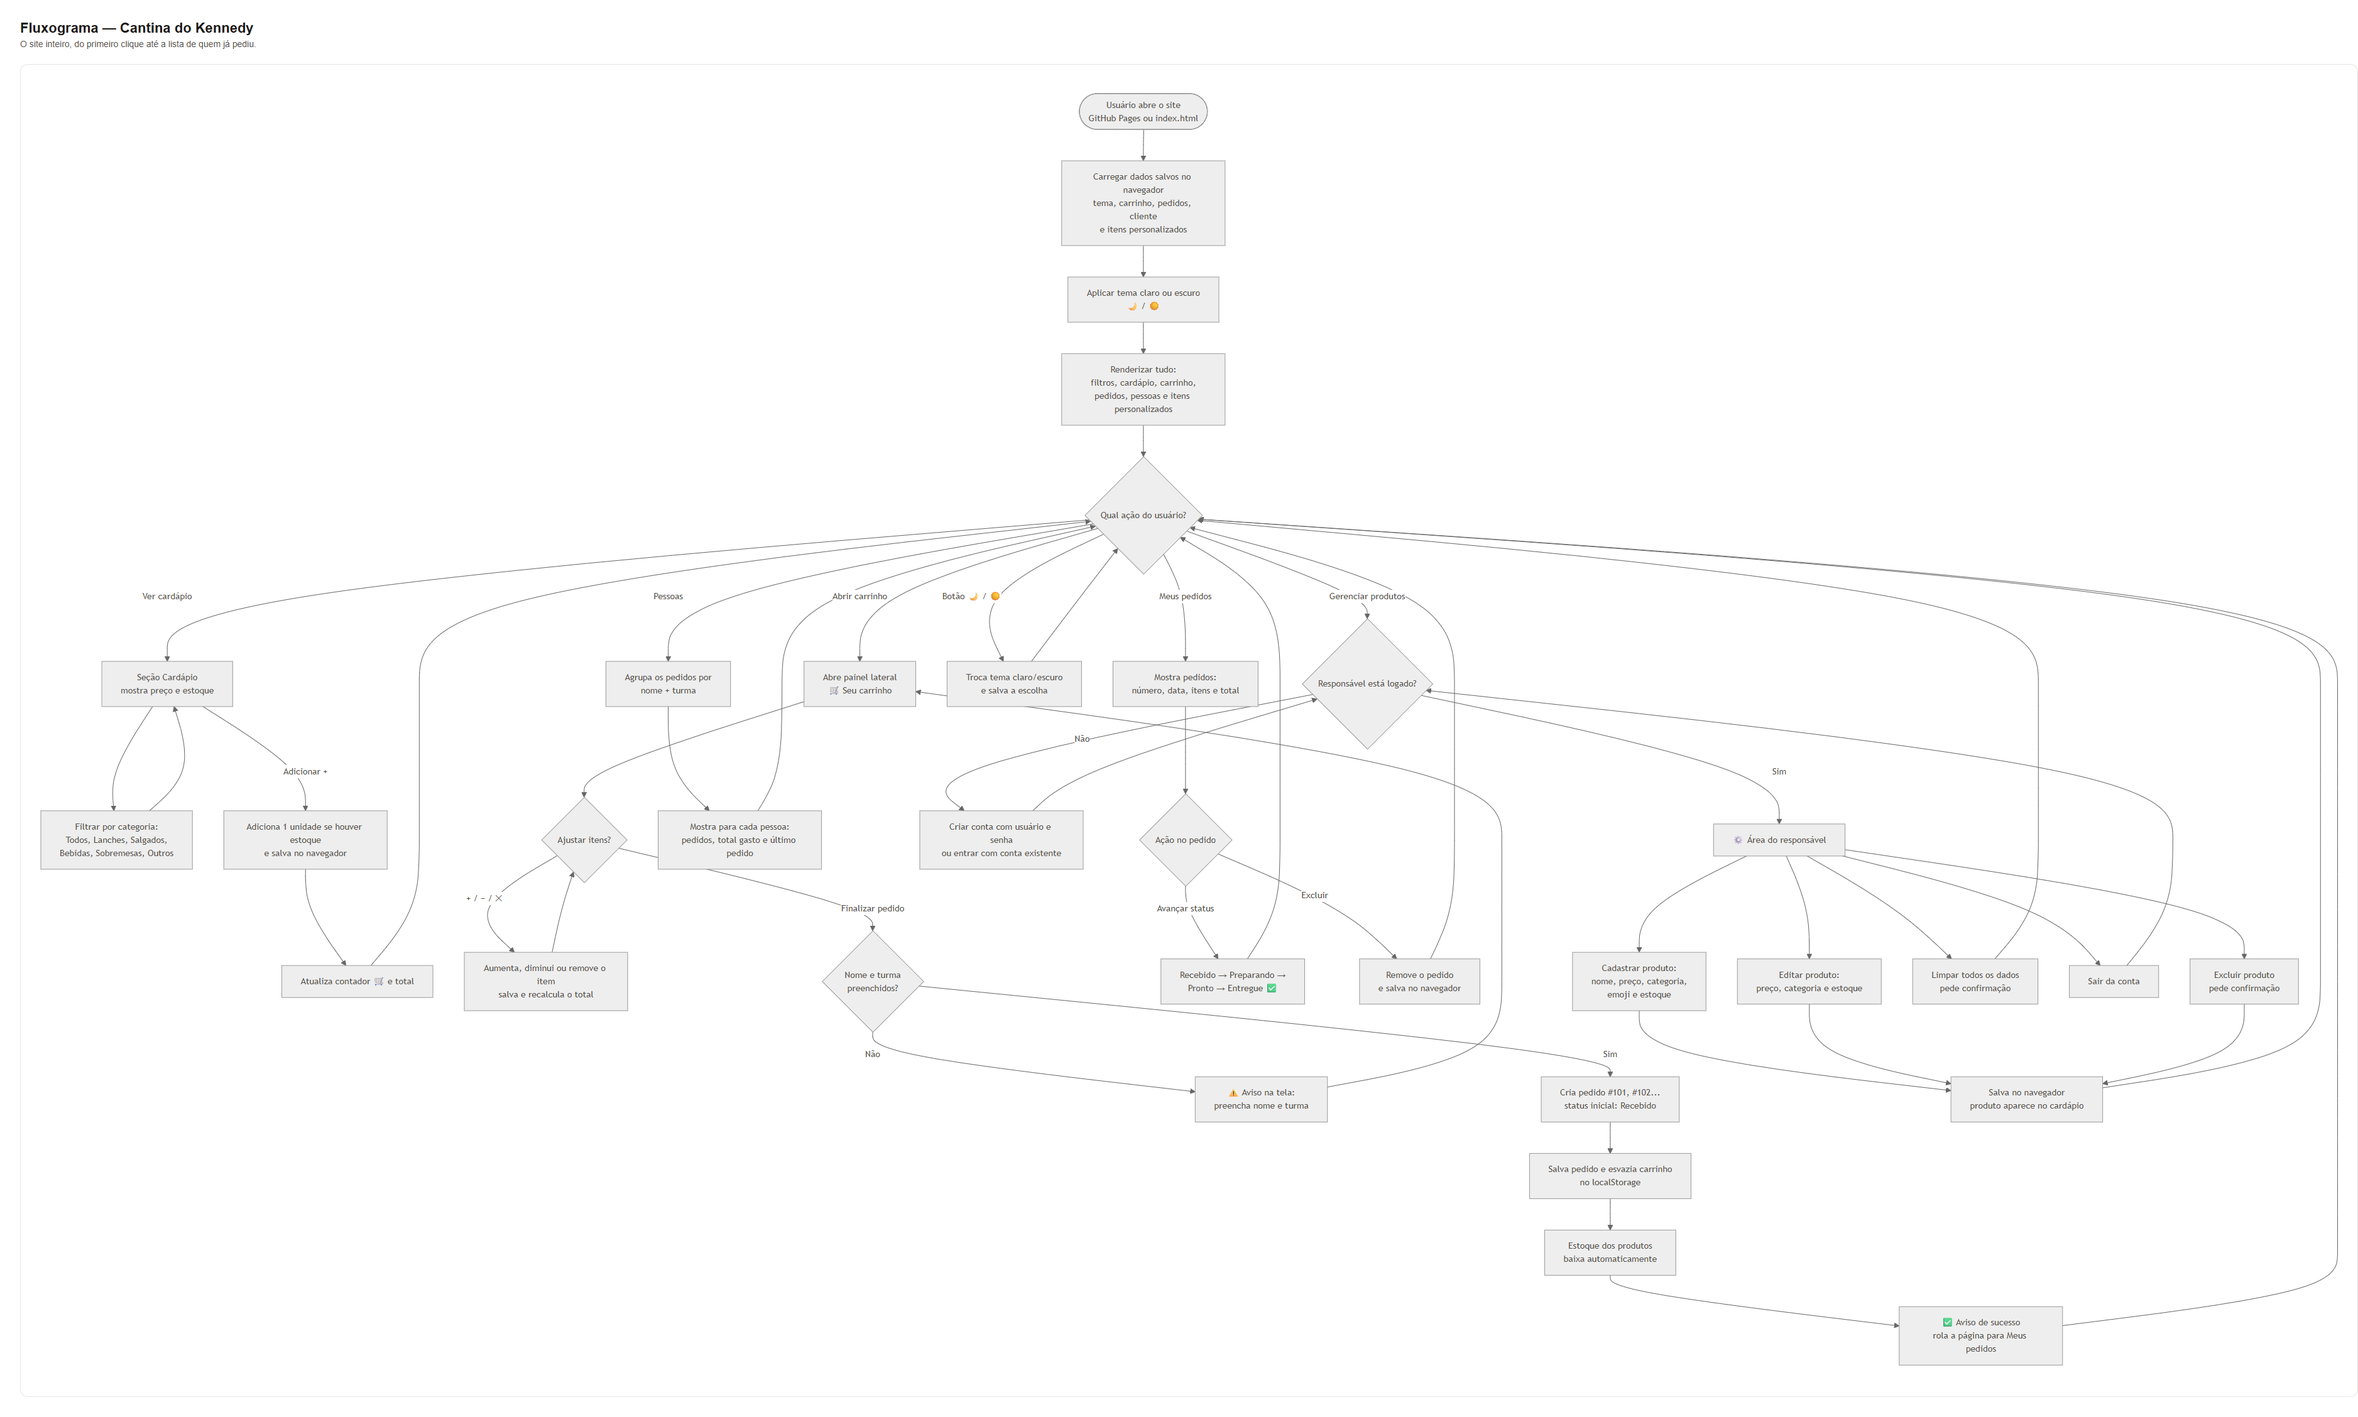
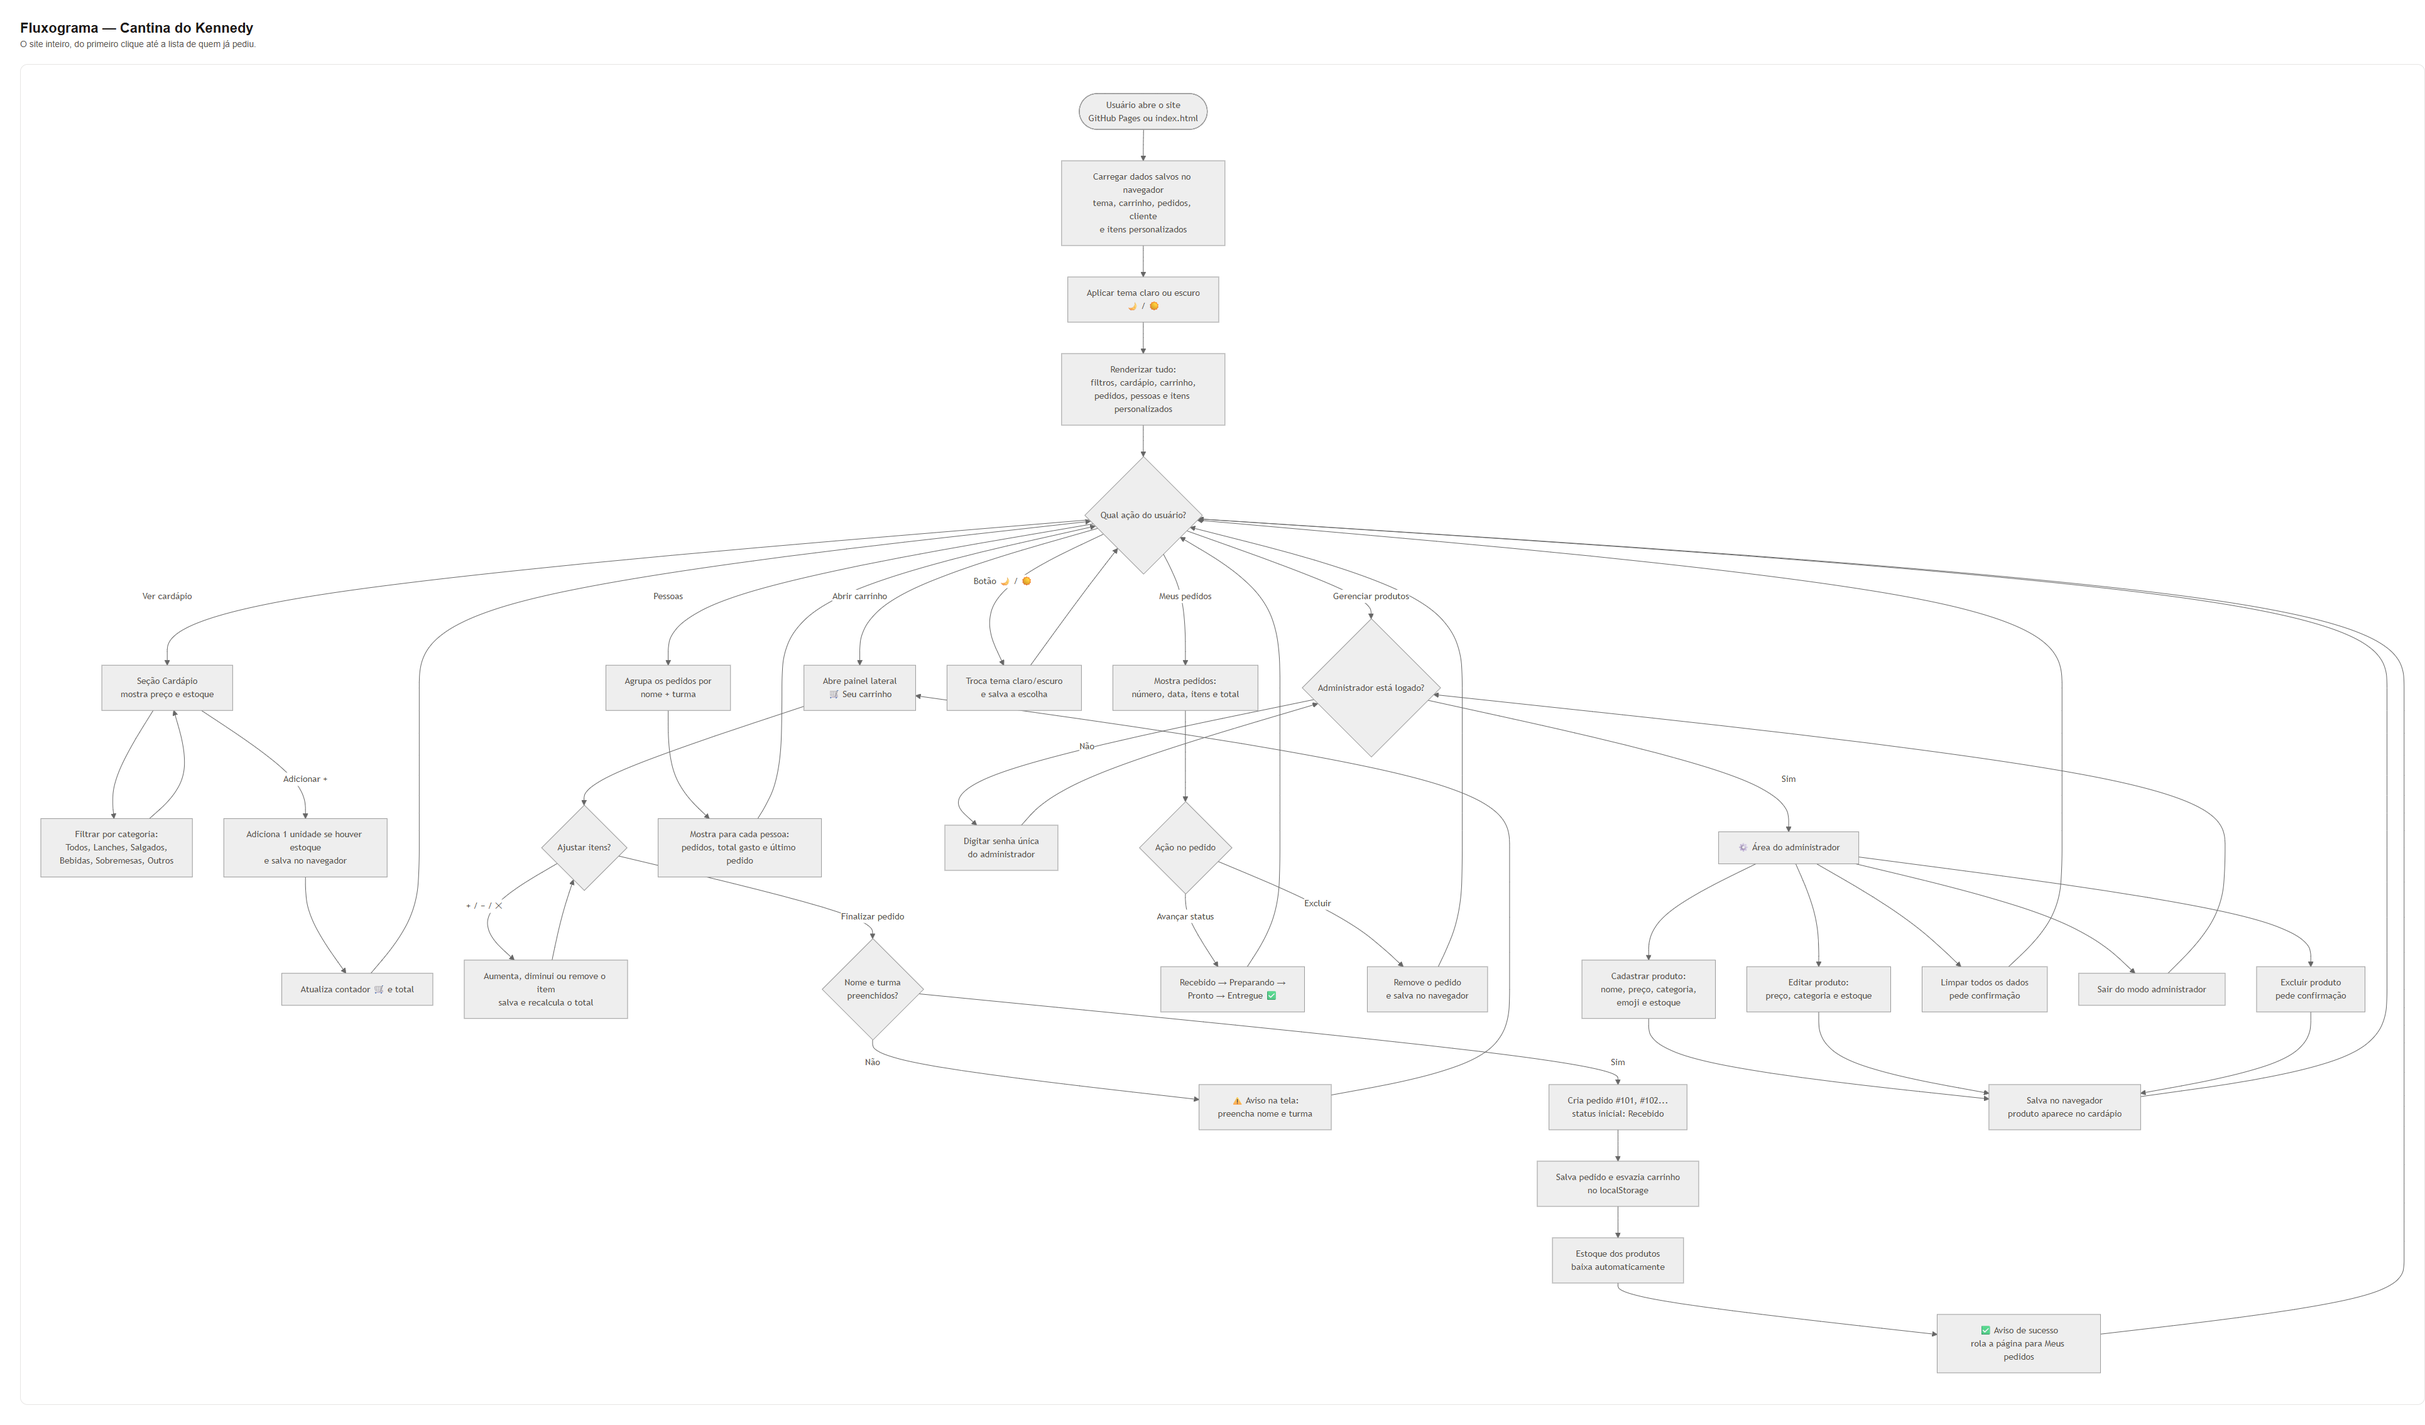
Troca cadastro livre por senha única do administrador

diff --git a/app.js b/app.js
@@ -13,7 +13,6 @@ const CHAVES = {
   cardapioEditados: 'cantina.cardapio.editados',
   cardapioExcluidos: 'cantina.cardapio.excluidos',
   cardapioEstoque: 'cantina.cardapio.estoque',
-  usuarios: 'cantina.usuarios',
   sessao: 'cantina.sessao',
   carrinho: 'cantina.carrinho',
   pedidos: 'cantina.pedidos',
@@ -22,7 +21,8 @@ const CHAVES = {
 };
 
 // Chaves usadas por versões antigas do app (apagadas ao limpar os dados).
-const CHAVES_ANTIGAS = ['cantina.cardapio', 'cantina.cardapio.v2'];
+// 'cantina.usuarios' vinha do login com cadastro livre, que não existe mais.
+const CHAVES_ANTIGAS = ['cantina.cardapio', 'cantina.cardapio.v2', 'cantina.usuarios'];
 
 // Cardápio inicial (usado na primeira vez que o site é aberto)
 const CARDAPIO_PADRAO = [
@@ -40,6 +40,10 @@ const CARDAPIO_PADRAO = [
 ];
 
 const STATUS = ['Recebido', 'Preparando', 'Pronto', 'Entregue'];
+
+// Senha única do administrador. Só quem souber esta senha abre a área de gerenciamento.
+// Atenção: em um site sem servidor, a senha fica visível no código-fonte.
+const SENHA_ADMIN = '1234';
 
 // Atalho para buscar elementos do HTML
 const $ = (seletor) => document.querySelector(seletor);
@@ -73,11 +77,7 @@ const el = {
   btnCancelarEdicao: $('#btn-cancelar-edicao'),
   listaCustom: $('#lista-custom'),
   formAuth: $('#form-auth'),
-  authUsuario: $('#auth-usuario'),
   authSenha: $('#auth-senha'),
-  authConfirmar: $('#auth-confirmar'),
-  campoConfirmar: $('#campo-confirmar'),
-  btnEntrar: $('#btn-entrar'),
   authLogado: $('#auth-logado'),
   nomeLogado: $('#nome-logado'),
   btnSair: $('#btn-sair'),
@@ -164,84 +164,38 @@ function darBaixaNoEstoque(itens) {
   recarregarCardapio();
 }
 
-// ---------- Login do responsável ----------
-
-// Hash simples para não guardar a senha em texto puro.
-// Atenção: isto não é segurança de verdade — tudo fica neste navegador.
-function hashSenha(senha) {
-  let hash = 5381;
-  for (let i = 0; i < senha.length; i += 1) {
-    hash = ((hash << 5) + hash + senha.charCodeAt(i)) | 0;
-  }
-  return String(hash);
-}
+// ---------- Acesso do administrador (senha única) ----------
 
 function renderizarAdmin() {
-  const logado = Boolean(sessao);
+  const logado = sessao === 'admin';
   el.formAuth.hidden = logado;
   el.authLogado.hidden = !logado;
   el.adminConteudo.hidden = !logado;
-  if (logado) el.nomeLogado.textContent = sessao;
+  if (logado) el.nomeLogado.textContent = 'Administrador';
 }
 
-function limparCamposAuth() {
-  el.authUsuario.value = '';
-  el.authSenha.value = '';
-  el.authConfirmar.value = '';
-}
-
-function criarConta(evento) {
+function entrar(evento) {
   evento.preventDefault();
 
-  const usuario = el.authUsuario.value.trim();
-  const senha = el.authSenha.value;
-  const confirmar = el.authConfirmar.value;
-
-  if (!usuario || senha.length < 4) {
-    mostrarMensagem('Use um usuário e uma senha com pelo menos 4 caracteres.');
-    return;
-  }
-  if (senha !== confirmar) {
-    mostrarMensagem('As senhas não são iguais.');
-    return;
-  }
-  if (usuarios.some((conta) => conta.usuario.toLowerCase() === usuario.toLowerCase())) {
-    mostrarMensagem('Esse usuário já existe. Clique em Entrar.');
+  if (el.authSenha.value !== SENHA_ADMIN) {
+    mostrarMensagem('Senha incorreta.');
+    el.authSenha.value = '';
+    el.authSenha.focus();
     return;
   }
 
-  usuarios.push({ usuario, senha: hashSenha(senha) });
-  sessao = usuario;
-  salvar(CHAVES.usuarios, usuarios);
+  sessao = 'admin';
   salvar(CHAVES.sessao, sessao);
-  limparCamposAuth();
+  el.authSenha.value = '';
   renderizarTudo();
-  mostrarMensagem('Conta criada! Você já está logado.');
-}
-
-function entrar() {
-  const usuario = el.authUsuario.value.trim();
-  const senha = el.authSenha.value;
-  const conta = usuarios.find((item) =>
-    item.usuario.toLowerCase() === usuario.toLowerCase() && item.senha === hashSenha(senha));
-
-  if (!conta) {
-    mostrarMensagem('Usuário ou senha incorretos.');
-    return;
-  }
-
-  sessao = conta.usuario;
-  salvar(CHAVES.sessao, sessao);
-  limparCamposAuth();
-  renderizarTudo();
-  mostrarMensagem(`Bem-vindo, ${sessao}!`);
+  mostrarMensagem('Acesso liberado! Você está como administrador.');
 }
 
 function sair() {
   sessao = null;
   salvar(CHAVES.sessao, sessao);
   renderizarTudo();
-  mostrarMensagem('Você saiu da conta.');
+  mostrarMensagem('Você saiu do modo administrador.');
 }
 
 // ---------- Tema claro / escuro ----------
@@ -258,8 +212,8 @@ let cardapioCustom = ler(CHAVES.cardapioCustom, []);
 let cardapioEditados = ler(CHAVES.cardapioEditados, {});
 let cardapioExcluidos = ler(CHAVES.cardapioExcluidos, []);
 let cardapioEstoque = ler(CHAVES.cardapioEstoque, {});
-let usuarios = ler(CHAVES.usuarios, []);
-let sessao = ler(CHAVES.sessao, null);
+// Só aceita a sessão criada com a senha correta. Sessões antigas (de contas) não valem mais.
+let sessao = ler(CHAVES.sessao, null) === 'admin' ? 'admin' : null;
 let editandoId = null;
 let carrinho = ler(CHAVES.carrinho, {}); // objeto: { "id-do-item": quantidade }
 let pedidos = ler(CHAVES.pedidos, []);
@@ -726,8 +680,7 @@ document.addEventListener('keydown', (evento) => {
 
 el.formPedido.addEventListener('submit', finalizarPedido);
 el.formItem.addEventListener('submit', salvarItemAdmin);
-el.formAuth.addEventListener('submit', criarConta);
-el.btnEntrar.addEventListener('click', entrar);
+el.formAuth.addEventListener('submit', entrar);
 el.btnSair.addEventListener('click', sair);
 el.btnCancelarEdicao.addEventListener('click', resetarFormItem);
 
@@ -738,14 +691,13 @@ el.btnCancelarEdicao.addEventListener('click', resetarFormItem);
 }));
 
 el.btnLimpar.addEventListener('click', () => {
-  if (!confirm('Apagar produtos criados, alterações, estoque, contas, carrinho e todos os pedidos salvos?')) return;
+  if (!confirm('Apagar produtos criados, alterações, estoque, carrinho e todos os pedidos salvos?')) return;
 
   [...Object.values(CHAVES), ...CHAVES_ANTIGAS].forEach((chave) => localStorage.removeItem(chave));
   cardapioCustom = [];
   cardapioEditados = {};
   cardapioExcluidos = [];
   cardapioEstoque = {};
-  usuarios = [];
   sessao = null;
   carrinho = {};
   pedidos = [];
@@ -754,7 +706,7 @@ el.btnLimpar.addEventListener('click', () => {
   filtroAtual = 'Todos';
   el.nome.value = '';
   el.turma.value = '';
-  limparCamposAuth();
+  el.authSenha.value = '';
   resetarFormItem();
   recarregarCardapio();
   aplicarTema();
@@ -763,6 +715,7 @@ el.btnLimpar.addEventListener('click', () => {
 });
 
 // ---------- Início ----------
+if (sessao === null) localStorage.removeItem(CHAVES.sessao);
 el.nome.value = cliente.nome || '';
 el.turma.value = cliente.turma || '';
 aplicarTema();

diff --git a/index.html b/index.html
@@ -4,7 +4,7 @@
   <meta charset="UTF-8">
   <meta name="viewport" content="width=device-width, initial-scale=1.0">
   <title>Cantina do Kennedy | Peça seu lanche</title>
-  <link rel="stylesheet" href="style.css?v=3">
+  <link rel="stylesheet" href="style.css?v=4">
 </head>
 <body>
 
@@ -79,20 +79,13 @@
 
         <div class="auth-area">
           <form class="form-auth" id="form-auth">
-            <h3>🔐 Acesso do responsável</h3>
-            <p class="auth-dica" id="auth-dica">Crie sua conta (repita a senha no campo abaixo) ou entre com uma conta já criada. Este acesso vale somente neste navegador.</p>
-            <label class="campo">Usuário
-              <input id="auth-usuario" type="text" placeholder="Seu usuário" autocomplete="username" required>
-            </label>
-            <label class="campo">Senha
-              <input id="auth-senha" type="password" placeholder="Pelo menos 4 caracteres" autocomplete="new-password" required>
-            </label>
-            <label class="campo" id="campo-confirmar">Confirmar senha
-              <input id="auth-confirmar" type="password" placeholder="Repita a senha" autocomplete="new-password">
+            <h3>🔐 Acesso do administrador</h3>
+            <p class="auth-dica" id="auth-dica">Digite a senha do administrador para cadastrar, editar e excluir produtos.</p>
+            <label class="campo">Senha do administrador
+              <input id="auth-senha" type="password" placeholder="Digite a senha" autocomplete="current-password" required>
             </label>
             <div class="auth-botoes">
-              <button class="botao-primario" id="btn-criar-conta" type="submit">Criar minha conta</button>
-              <button class="botao-secundario" id="btn-entrar" type="button">Entrar</button>
+              <button class="botao-primario" id="btn-entrar" type="submit">Entrar</button>
             </div>
           </form>
           <div class="auth-logado" id="auth-logado" hidden>
@@ -172,6 +165,6 @@
 
   <div class="toast" id="toast" role="status" aria-live="polite"></div>
 
-  <script src="app.js?v=3"></script>
+  <script src="app.js?v=4"></script>
 </body>
 </html>

diff --git a/fluxograma.html b/fluxograma.html
@@ -71,15 +71,15 @@ flowchart TD
     PESSOAS --> CARDPESSOA["Mostra para cada pessoa:<br/>pedidos, total gasto e último pedido"]
     CARDPESSOA --> MENU
 
-    MENU -->|"Gerenciar produtos"| LOGIN{"Responsável está logado?"}
-    LOGIN -->|"Não"| CRIARCONTA["Criar conta com usuário e senha<br/>ou entrar com conta existente"]
-    CRIARCONTA --> LOGIN
-    LOGIN -->|"Sim"| ADMIN["⚙ Área do responsável"]
+    MENU -->|"Gerenciar produtos"| LOGIN{"Administrador está logado?"}
+    LOGIN -->|"Não"| DIGITARSENHA["Digitar senha única<br/>do administrador"]
+    DIGITARSENHA --> LOGIN
+    LOGIN -->|"Sim"| ADMIN["⚙ Área do administrador"]
     ADMIN --> NOVO["Cadastrar produto:<br/>nome, preço, categoria,<br/>emoji e estoque"]
     ADMIN --> EDITAR["Editar produto:<br/>preço, categoria e estoque"]
     ADMIN --> REMOVE["Excluir produto<br/>pede confirmação"]
     ADMIN --> LIMPAR["Limpar todos os dados<br/>pede confirmação"]
-    ADMIN --> SAIR["Sair da conta"]
+    ADMIN --> SAIR["Sair do modo administrador"]
     NOVO --> SALVACUSTOM["Salva no navegador<br/>produto aparece no cardápio"]
     EDITAR --> SALVACUSTOM
     REMOVE --> SALVACUSTOM

diff --git a/fluxograma-simples.html b/fluxograma-simples.html
@@ -43,8 +43,8 @@ flowchart LR
 
     A --> B --> C --> D --> E --> F --> G --> H
 
-    B -.-> I["🔐 Responsável"]
-    I -.-> J["Criar conta ou entrar"]
+    B -.-> I["🔐 Administrador"]
+    I -.-> J["Digitar senha única"]
     J -.-> K["Cadastrar, editar,<br/>excluir e ajustar estoque"]
 
     classDef inicio fill:#166534,stroke:#14532d,color:#ffffff;

diff --git a/README.md b/README.md
@@ -10,10 +10,10 @@ Site para fazer pedidos de lanches da cantina.
 - Carrinho com quantidades e total do pedido.
 - Nome e turma do cliente e acompanhamento do status (Recebido → Preparando → Pronto → Entregue).
 - Lista de **pessoas que já pediram** (sem senha).
-- Área do responsável com **login/cadastro** e **CRUD de produtos**: cadastrar, editar, excluir e ajustar estoque.
+- Área do administrador protegida por **senha única** e **CRUD de produtos**: cadastrar, editar, excluir e ajustar estoque.
 - Ao finalizar um pedido, o estoque dos produtos baixa automaticamente.
 
-> O login e os dados são locais: funcionam somente no navegador onde foram criados.
+> A senha do administrador está no código do site. Ela serve como uma barreira simples para não deixar qualquer pessoa mexer no cardápio, mas **não é segurança de verdade**: como o site é estático, a senha fica visível no código-fonte. Os dados salvos ficam somente no navegador.
 
 ## Fluxograma simples (versão fácil)
 
@@ -34,7 +34,7 @@ Site para fazer pedidos de lanches da cantina.
 | --- | --- |
 | `index.html` | Estrutura das telas do site |
 | `style.css` | Cores, layout e tema claro/escuro |
-| `app.js` | Regras: login, produtos, estoque, carrinho, pedidos e pessoas |
+| `app.js` | Regras: senha do administrador, produtos, estoque, carrinho, pedidos e pessoas |
 | `fluxograma-simples.png` | Versão resumida do fluxo (7 passos) |
 | `fluxograma.png` | Desenho do fluxo completo do site |
 | `fluxograma-simples.html` | Versão interativa do fluxograma simples |

diff --git a/fluxograma.md b/fluxograma.md
@@ -49,15 +49,15 @@ flowchart TD
     PESSOAS --> CARDPESSOA["Mostra para cada pessoa:<br/>pedidos, total gasto e último pedido"]
     CARDPESSOA --> MENU
 
-    MENU -->|"Gerenciar produtos"| LOGIN{"Responsável está logado?"}
-    LOGIN -->|"Não"| CRIARCONTA["Criar conta com usuário e senha<br/>ou entrar com conta existente"]
-    CRIARCONTA --> LOGIN
-    LOGIN -->|"Sim"| ADMIN["⚙ Área do responsável"]
+    MENU -->|"Gerenciar produtos"| LOGIN{"Administrador está logado?"}
+    LOGIN -->|"Não"| DIGITARSENHA["Digitar senha única<br/>do administrador"]
+    DIGITARSENHA --> LOGIN
+    LOGIN -->|"Sim"| ADMIN["⚙ Área do administrador"]
     ADMIN --> NOVO["Cadastrar produto:<br/>nome, preço, categoria,<br/>emoji e estoque"]
     ADMIN --> EDITAR["Editar produto:<br/>preço, categoria e estoque"]
     ADMIN --> REMOVE["Excluir produto<br/>pede confirmação"]
     ADMIN --> LIMPAR["Limpar todos os dados<br/>pede confirmação"]
-    ADMIN --> SAIR["Sair da conta"]
+    ADMIN --> SAIR["Sair do modo administrador"]
     NOVO --> SALVACUSTOM["Salva no navegador<br/>produto aparece no cardápio"]
     EDITAR --> SALVACUSTOM
     REMOVE --> SALVACUSTOM

diff --git a/fluxograma-simples.md b/fluxograma-simples.md
@@ -22,8 +22,8 @@ flowchart LR
 
     A --> B --> C --> D --> E --> F --> G --> H
 
-    B -.-> I["🔐 Responsável"]
-    I -.-> J["Criar conta ou entrar"]
+    B -.-> I["🔐 Administrador"]
+    I -.-> J["Digitar senha única"]
     J -.-> K["Cadastrar, editar,<br/>excluir e ajustar estoque"]
 
     classDef inicio fill:#166534,stroke:#14532d,color:#ffffff;
